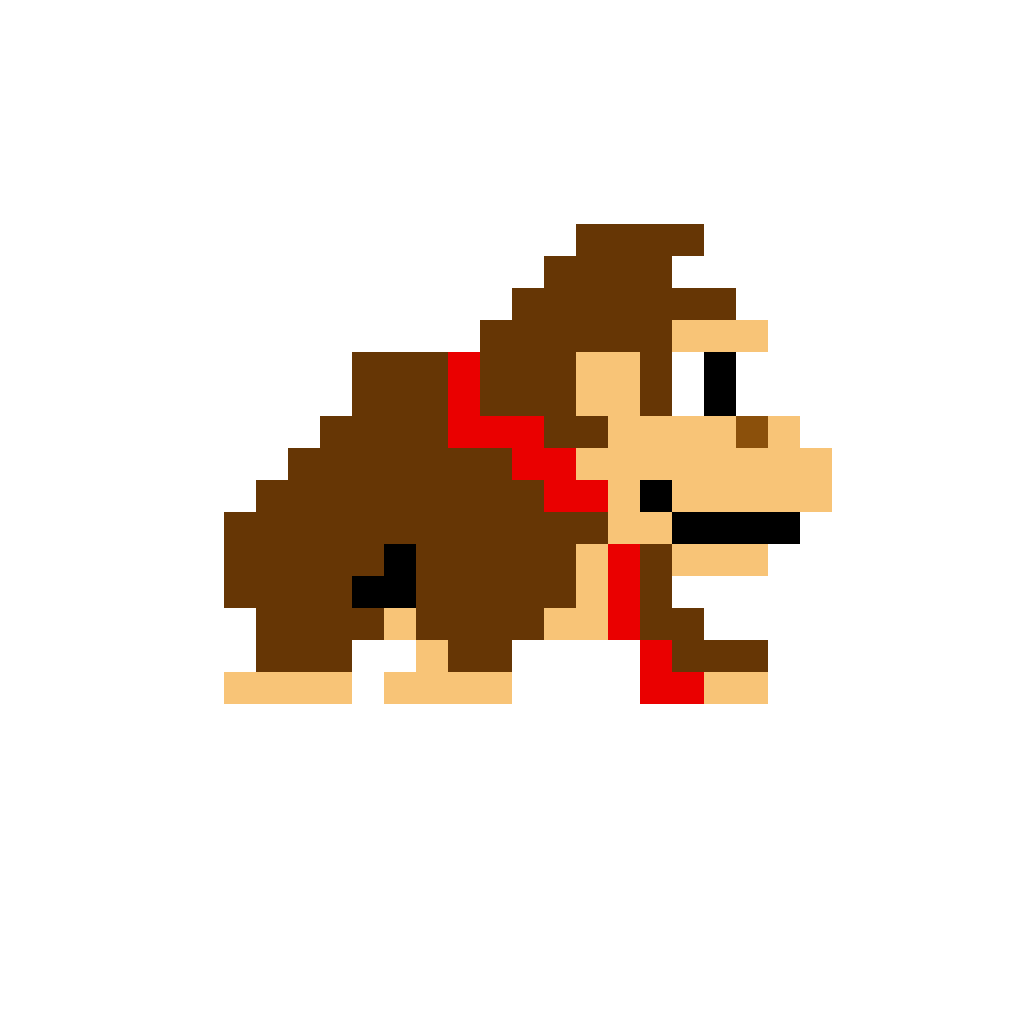
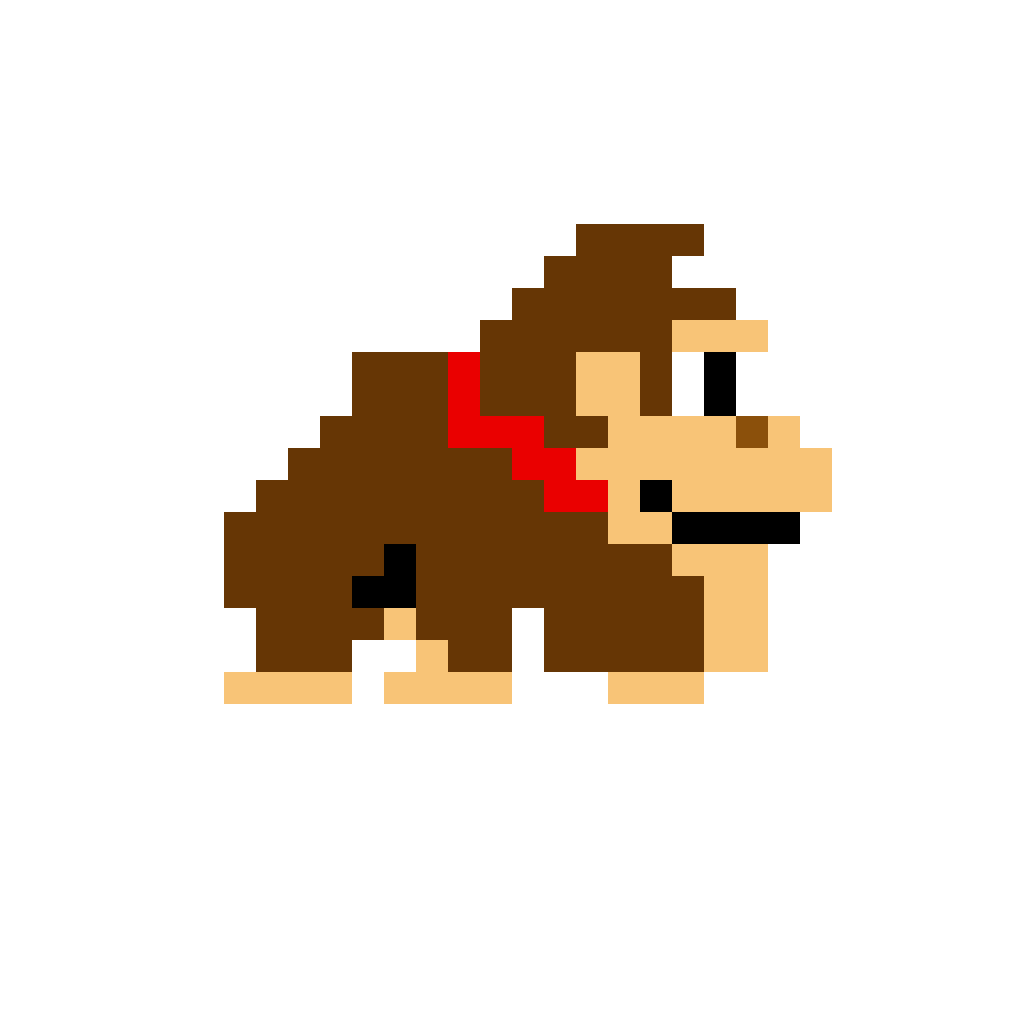
Kicking animation

Changed region(s): [[0.5, 0.5312, 0.75, 0.6875]]

diff --git a/src/main/java/com/example/stickman_project/NINJA.java b/src/main/java/com/example/stickman_project/NINJA.java
@@ -23,6 +23,8 @@ public class NINJA {
     private Image kicking1 = new Image("donkeykong_kicking1.png");
     private Image kicking2 = new Image("donkeykong_kicking2.png");
     private Image kicking3 = new Image("donkeykong_kicking3.png");
+    private Image kicking4 = new Image("donkeykong_kicking4.png");
+    private Image kicking5 = new Image("donkeykong_kicking5.png");
 
 
     int running_number = 1;
@@ -66,11 +68,20 @@ public class NINJA {
                 break;
             case 3:
                 this.character.setImage(this.kicking3);
+                running_number = 4;
+                break;
+            case 4:
+                this.character.setImage(this.kicking4);
+                running_number = 5;
+                break;
+            case 5:
+                this.character.setImage(this.kicking5);
                 running_number = 1;
                 break;
         }
 
     }));
+
     public NINJA(ImageView character) {
         this.character = character;
         this.character.setImage(running1);
